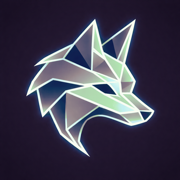
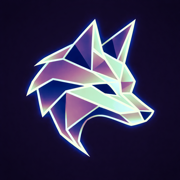
アイコンを新しい Kon_Titan に差し替え、地と枠の色をアイコンに合わせる

diff --git a/assets/style.css b/assets/style.css
@@ -1,7 +1,7 @@
 /* trkAR — colours from the app icon / app theme (Theme.swift, plan T3) */
 @font-face { font-family: "OCR A"; src: url("OCRA.otf") format("opentype"); font-display: swap; }
 :root {
-  --base: #1b1226; --panel: #241a33; --accent: #ebf9f0; --frame: #968aa2;
+  --base: #0e0722; --panel: #1a1238; --accent: #ebf9f0; --frame: #ad849d;
   --ok: #8fc8ff; --warn: #ffd479; --text: #d9e6dd;
 }
 * { box-sizing: border-box; }
